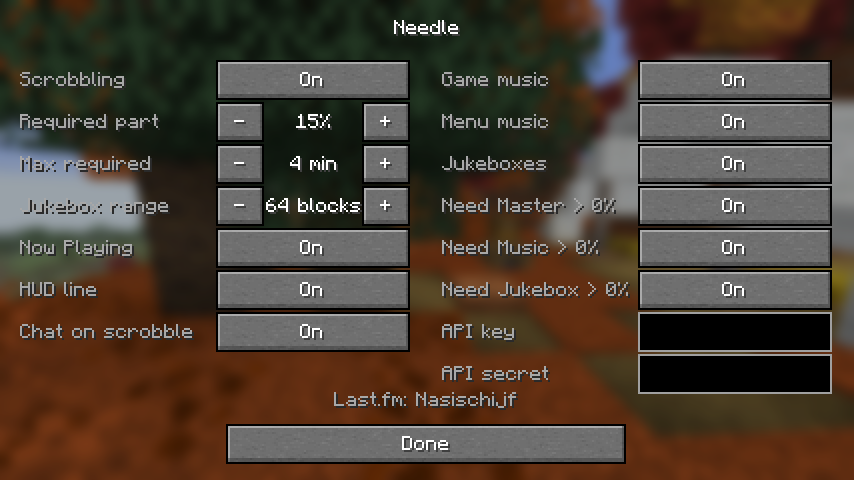
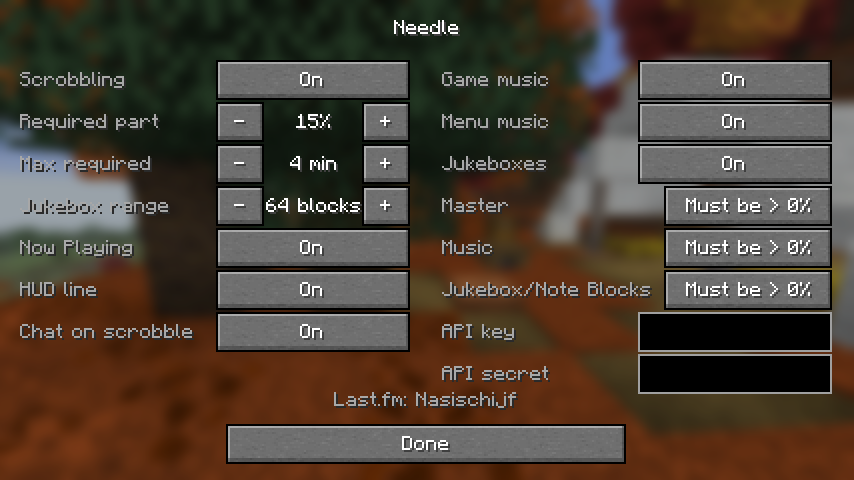
fix: name the volume checks after the game's sliders
The settings screen showed 'Need Jukebox > 0%' next to 'Jukeboxes', which read like two controls for the one Jukebox/Note Blocks slider. The three checks are now labelled Master, Music and Jukebox/Note Blocks, as in Options > Music & Sounds, with 'Must be > 0%' / 'Ignored' buttons.

diff --git a/src/client/java/dev/needle/client/NeedleScreen.java b/src/client/java/dev/needle/client/NeedleScreen.java
@@ -74,12 +74,13 @@ public final class NeedleScreen extends Screen {
 				"Music while playing: overworld, nether, end, underwater, creative, credits");
 		y = toggle(right, y, "Menu music", () -> c.scrobbleMenuMusic, v -> c.scrobbleMenuMusic = v, "Music on the title screen and other menus");
 		y = toggle(right, y, "Jukeboxes", () -> c.scrobbleJukebox, v -> c.scrobbleJukebox = v, "Music discs playing in jukeboxes near you");
-		y = toggle(right, y, "Need Master > 0%", () -> c.requireMasterVolume, v -> c.requireMasterVolume = v,
-				"Nothing counts while the Master volume slider is at 0%");
-		y = toggle(right, y, "Need Music > 0%", () -> c.requireMusicVolume, v -> c.requireMusicVolume = v,
-				"Game and menu music count only while the Music slider is above 0%");
-		y = toggle(right, y, "Need Jukebox > 0%", () -> c.requireJukeboxVolume, v -> c.requireJukeboxVolume = v,
-				"Jukebox songs count only while the Jukebox/Note Blocks slider is above 0%");
+		// one row per volume slider in Options > Music & Sounds, named as the game names them
+		y = sliderCheck(right, y, "Master", () -> c.requireMasterVolume, v -> c.requireMasterVolume = v,
+				"Master slider in Music & Sounds. When required, nothing counts while it is at 0%.");
+		y = sliderCheck(right, y, "Music", () -> c.requireMusicVolume, v -> c.requireMusicVolume = v,
+				"Music slider in Music & Sounds. When required, game and menu music count only while it is above 0%.");
+		y = sliderCheck(right, y, "Jukebox/Note Blocks", () -> c.requireJukeboxVolume, v -> c.requireJukeboxVolume = v,
+				"Jukebox/Note Blocks slider in Music & Sounds. When required, jukebox songs count only while it is above 0%.");
 		y = textField(right, y, "API key", c.apiKey, v -> c.apiKey = v,
 				"Your own Last.fm API key. Leave empty to use the one built into the mod.");
 		textField(right, y, "API secret", c.apiSecret, v -> c.apiSecret = v,
@@ -102,6 +103,22 @@ public final class NeedleScreen extends Screen {
 			b.setMessage(onOff(get.getAsBoolean()));
 		}).bounds(x + colW - bw, y, bw, H).tooltip(Tooltip.create(Component.literal(tip))).build());
 		return y + ROW;
+	}
+
+	/** A volume slider check: "Must be > 0%" or "Ignored", with a narrower button so the slider name fits. */
+	private int sliderCheck(int x, int y, String label, BooleanSupplier get, Consumer<Boolean> set, String tip) {
+		labels.add(new Label(label, x, y + 6, GRAY));
+		int bw = Math.max(60, colW - font.width("Jukebox/Note Blocks") - 6);
+		addRenderableWidget(Button.builder(sliderText(get.getAsBoolean()), b -> {
+			set.accept(!get.getAsBoolean());
+			changed();
+			b.setMessage(sliderText(get.getAsBoolean()));
+		}).bounds(x + colW - bw, y, bw, H).tooltip(Tooltip.create(Component.literal(tip))).build());
+		return y + ROW;
+	}
+
+	private static Component sliderText(boolean required) {
+		return Component.literal(required ? "Must be > 0%" : "Ignored");
 	}
 
 	private int number(int x, int y, String label, Supplier<String> text, Runnable dec, Runnable inc, String tip) {
